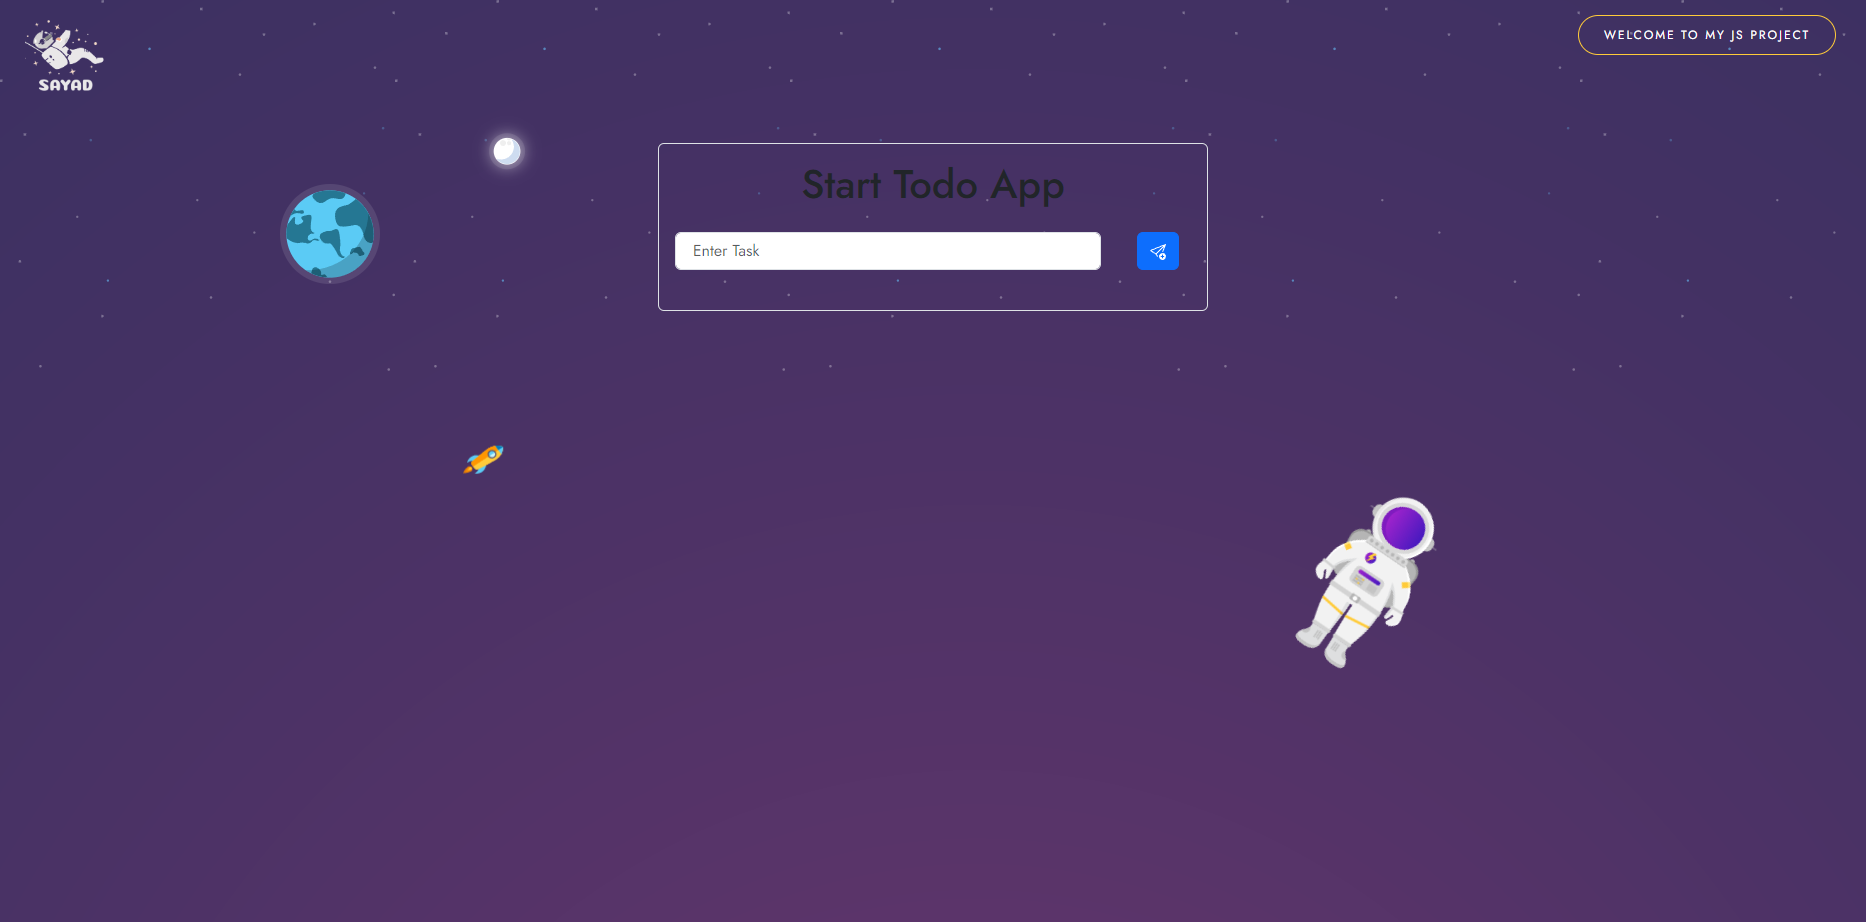
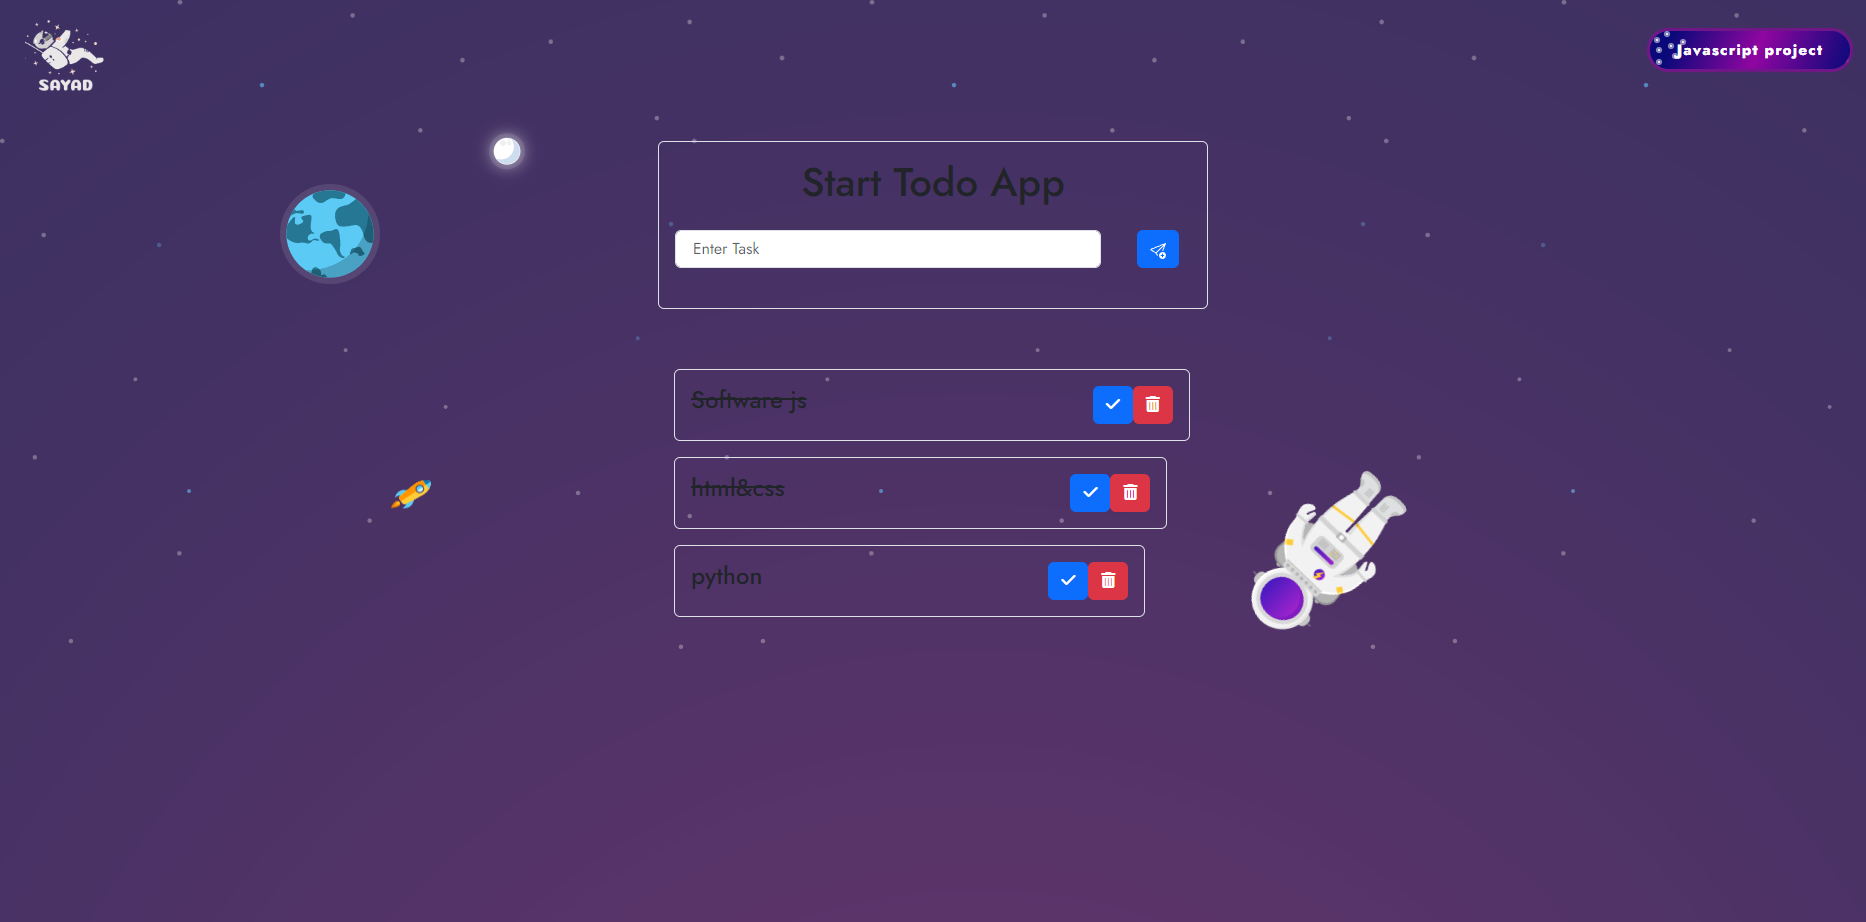
add new file

diff --git a/css/style.css b/css/style.css
@@ -301,3 +301,179 @@ li a:hover {
 }
 
 
+
+
+.pulsa {
+    animation: pulsa 1.4s infinite;
+    min-width: 200px;
+    width: fit-content;
+    border-radius: 9999px;
+    /* overflow: hidden; */
+  }
+  
+  .cta {
+    width: 100%;
+    height: 100%;
+    border: none;
+    outline: none;
+    background-color: none;
+    border-radius: 9999px;
+    padding: 8px 16px;
+    color: white;
+    font-size: 15px;
+    background: linear-gradient(109.6deg, #090979 11.2%, #9006A1 53.7%, #090979 100.2%);
+    letter-spacing: 0.08em;
+    font-weight: 800;
+    position: relative;
+  }
+  
+  .cta:active {
+    animation: pulsa-active .4s infinite;
+  }
+  
+  .star {
+    width: 2px;
+    height: 2px;
+    background-color: white;
+    border-radius: 50%;
+    position: absolute;
+    animation: pulsa-stella 1.8s infinite;
+    transition: all .8s ease-in-out;
+  }
+  
+  .star.a {
+    top: 8px;
+    left: 6px;
+  }
+  
+  .star.b {
+    top: 2px;
+    left: 16px;
+  }
+  
+  .star.c {
+    top: 18px;
+    left: 8px;
+  }
+  
+  .star.d {
+    top: 14px;
+    left: 20px;
+  }
+  
+  .star.e {
+    top: 30px;
+    left: 8px;
+  }
+  
+  .star.f {
+    top: 24px;
+    left: 24px;
+  }
+  
+  .star.g {
+    top: 10px;
+    left: 32px;
+  }
+  
+  .pulsa:hover .star.a {
+    transform: translate3d(0px, 8px, 0);
+  }
+  
+  .pulsa:hover .star.b {
+    transform: translate3d(-4px, 6px, 0);
+  }
+  
+  .pulsa:hover .star.c {
+    transform: translate3d(14px, -8px, 0);
+  }
+  
+  .pulsa:hover .star.d {
+    transform: translate3d(16px, -2px, 0);
+  }
+  
+  .pulsa:hover .star.e {
+    transform: translate3d(58px, -20px, 0);
+  }
+  
+  .pulsa:hover .star.f {
+    transform: translate3d(34px, 2px, 0);
+  }
+  
+  .pulsa:hover .star.g {
+    transform: translate3d(10px, 16px, 0);
+  }
+  
+  .rocket {
+    position: absolute;
+    top: 8px;
+    right: 16px;
+    z-index: -1;
+    transform: rotate(180deg);
+    transition: all .3s ease-in-out;
+  }
+  
+  .pulsa:hover .rocket {
+    z-index: auto;
+    animation: muovi-razzo 1.8s linear;
+    transform: rotate(0deg);
+  }
+  
+  @keyframes pulsa {
+    0% {
+      box-shadow: 0 0 0 0 #9006A1;
+    }
+  
+    100% {
+      box-shadow: 0 0 0 8px #fbb32f01;
+    }
+  }
+  
+  @keyframes pulsa-stella {
+    0% {
+      box-shadow: 0 0 0 0 #ffffff;
+    }
+  
+    100% {
+      box-shadow: 0 0 0 4px #fbb32f01;
+    }
+  }
+  
+  @keyframes muovi-razzo {
+    from {
+      transform: rotate(180deg);
+    }
+  
+    25% {
+      transform: translate3d(40px, 32px, 0);
+    }
+  
+    50% {
+      transform: translate3d(32px, -60px, 0);
+    }
+  
+    75% {
+      transform: translate3d(0px, -60px, 0) rotate(0);
+    }
+  
+    to {
+      transform: rotate(0deg);
+    }
+  }
+  
+  @keyframes pulsa-active {
+    0% {
+      box-shadow: 0 0 0 0 #9006A1;
+    }
+  
+    100% {
+      box-shadow: 0 0 0 16px #fbb32f01;
+    }
+  }
+
+
+  .pulsa{
+    margin-left: 1650px;
+    margin-top: -60px;
+  }
+

diff --git a/index.html b/index.html
@@ -22,11 +22,20 @@
              <img src="img/logo.png" width="80px">
             </div>
            
-            <div class="navbar-links">
-                <ul>
-                  <li><a href="#" class="btn-request" target="_blank"> Welcome to my JS project </a></li>
-                </ul>
-            </div>
+            <div id="pulsa" class="pulsa">
+                <button id="cta" class="cta">
+                    Javascript project<div class="star a"></div>
+                <div class="star b"></div>
+                <div class="star c"></div>
+                <div class="star d"></div>
+                <div class="star e"></div>
+                <div class="star f"></div>
+                <div class="star g"></div>
+                <svg version="1.1" viewBox="0 0 1024 1024" width="24px" class="rocket"><path fill="#3A7EB9" d="M662.72 462.784l136.448 169.408v173.248l-136.448-48.32zM342.72 457.344L206.272 626.816v173.248l136.448-48.384z"></path><path fill="#D48171" d="M570.688 418.688l-142.848 1.152a266.496 266.496 0 0 1-20.288-0.576l3.712 448.64c0.256 28.928 94.272 130.048 94.272 130.048s93.888-102.656 93.632-131.584l-3.712-448.96a344.64 344.64 0 0 1-24.768 1.28z"></path><path fill="#E9DF92" d="M531.456 599.296l-63.04 0.576c-3.008 0-5.952-0.064-8.96-0.384l2.176 257.792c0.128 16.64 41.728 74.816 41.728 74.816s41.344-58.944 41.28-75.52l-2.176-257.92c-3.648 0.384-7.296 0.64-11.008 0.64z"></path><path fill="#B5D5EB" d="M554.304 93.568a324.352 324.352 0 0 0-110.592 1.728L342.72 240.768v584.512c13.824-0.96 27.968-1.536 42.368-1.536h245.248c11.84 0 23.36 0.384 34.816 1.024V253.312L554.304 93.568z"></path><path fill="#3A7EB9" d="M541.44 94.144L500.416 35.008l-45.696 59.136v29.504h89.024v-29.504zM459.456 288.64h88.96v88.896h-88.96zM459.456 467.456h88.96v88.96h-88.96zM459.456 634.176h88.96v88.896h-88.96zM364.928 788.736h277.76v44.352h-277.76z"></path></svg>
+                </button>
+                
+              </div>
+           
              <!-- start row 1 -->
              <div  class="container py-4 ">
         <div class="row my-5">
